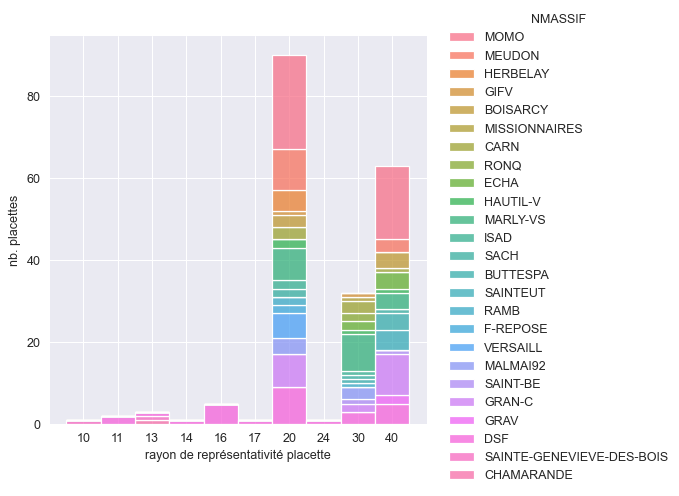
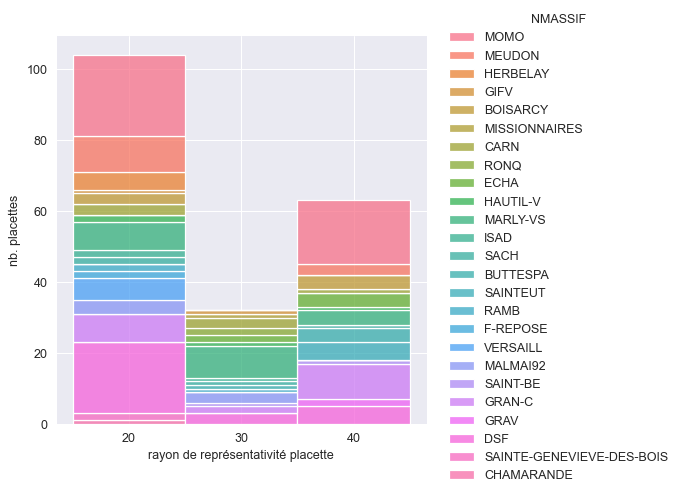
Signed-off-by: fprigent bugfix sur Rayon de représentativité

diff --git a/report/dsf_cht2022_report.html b/report/dsf_cht2022_report.html
@@ -33,7 +33,7 @@
 
 <body>
 <h1>DSF_CHT 2022</h1>
-<p><em>2022-07-28_1134   fprigent-ONF</em></p>
+<p><em>2022-07-28_1200   fprigent-ONF</em></p>
 <h3>199 placettes retenues (28 placettes epicollect)</h3>
 <h4>3980 arbres notés</h4>
 <h2>Localisation des relevés</h2>

diff --git a/src/TB.py b/src/TB.py
@@ -97,14 +97,14 @@ gdf.rename(columns = {'placette': 'NUM_PLAC',
                       'date_obs':'DATE',
                       'codeco1': 'NOTATEUR',
                       'G___PLAC': 'G',
-                      'DMAXA___PLAC': 'R_MAX',
+                      'DMAXA___PLAC': 'DIST_MAX',
                       'REMARQUES___PLAC': 'REMARQUE',
                       'RECOUV_SUP___PLAC': 'REC_SUP2',
                       'RECOUV_INF___PLAC': 'REC_LIGN',
                       'lib_PEUP_RUIN___PLAC': 'ETAT_SAN'
                      }, inplace = True)
 gdf.drop(['x93', 'y93'], axis='columns', inplace=True)
-gdf['DIST_MAX'] = gdf.R_MAX
+gdf['R_MAX'] = 20
 gdf['NOTATEUR'] = 'dsf_' + gdf['NOTATEUR']
 
 

diff --git a/report/README.md b/report/README.md
@@ -1,7 +1,7 @@
 
 # DSF_CHT 2022
 
-*2022-07-28_1134   fprigent-ONF*
+*2022-07-28_1200   fprigent-ONF*
 
 ### 199 placettes retenues (28 placettes epicollect)
 #### 3980 arbres notés
